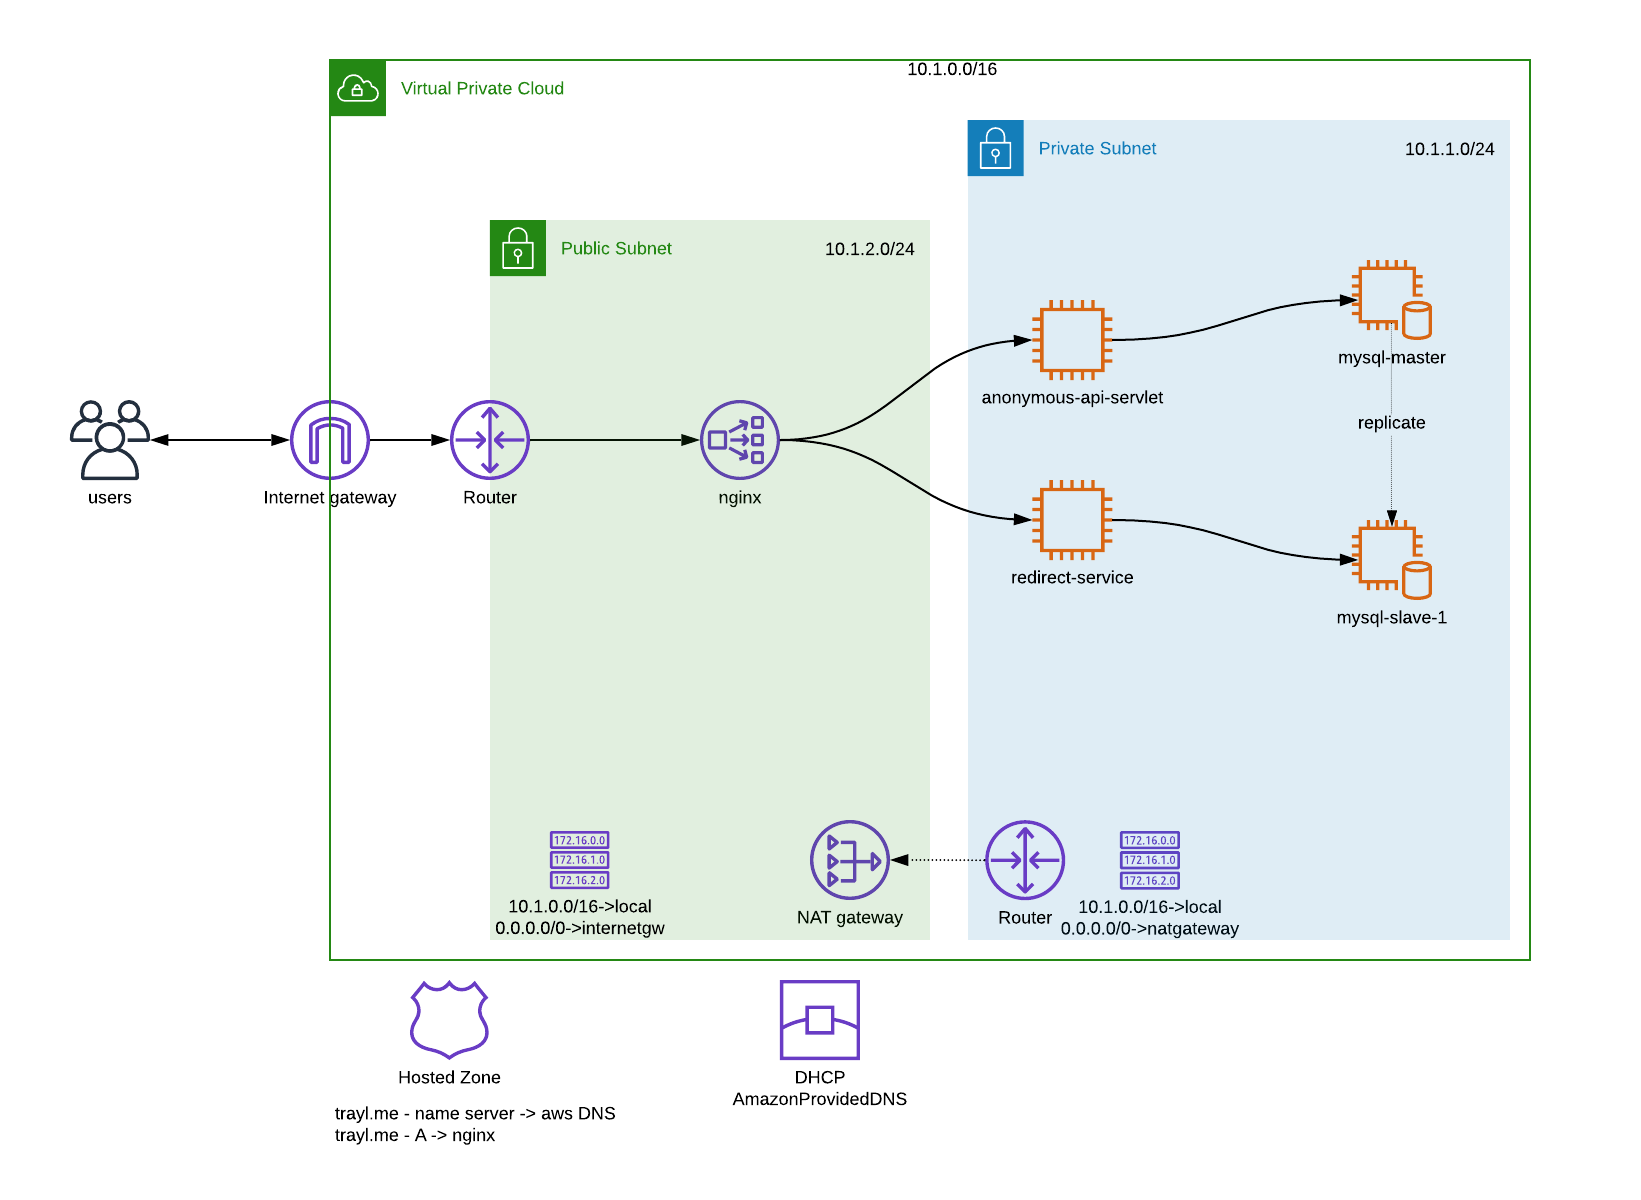
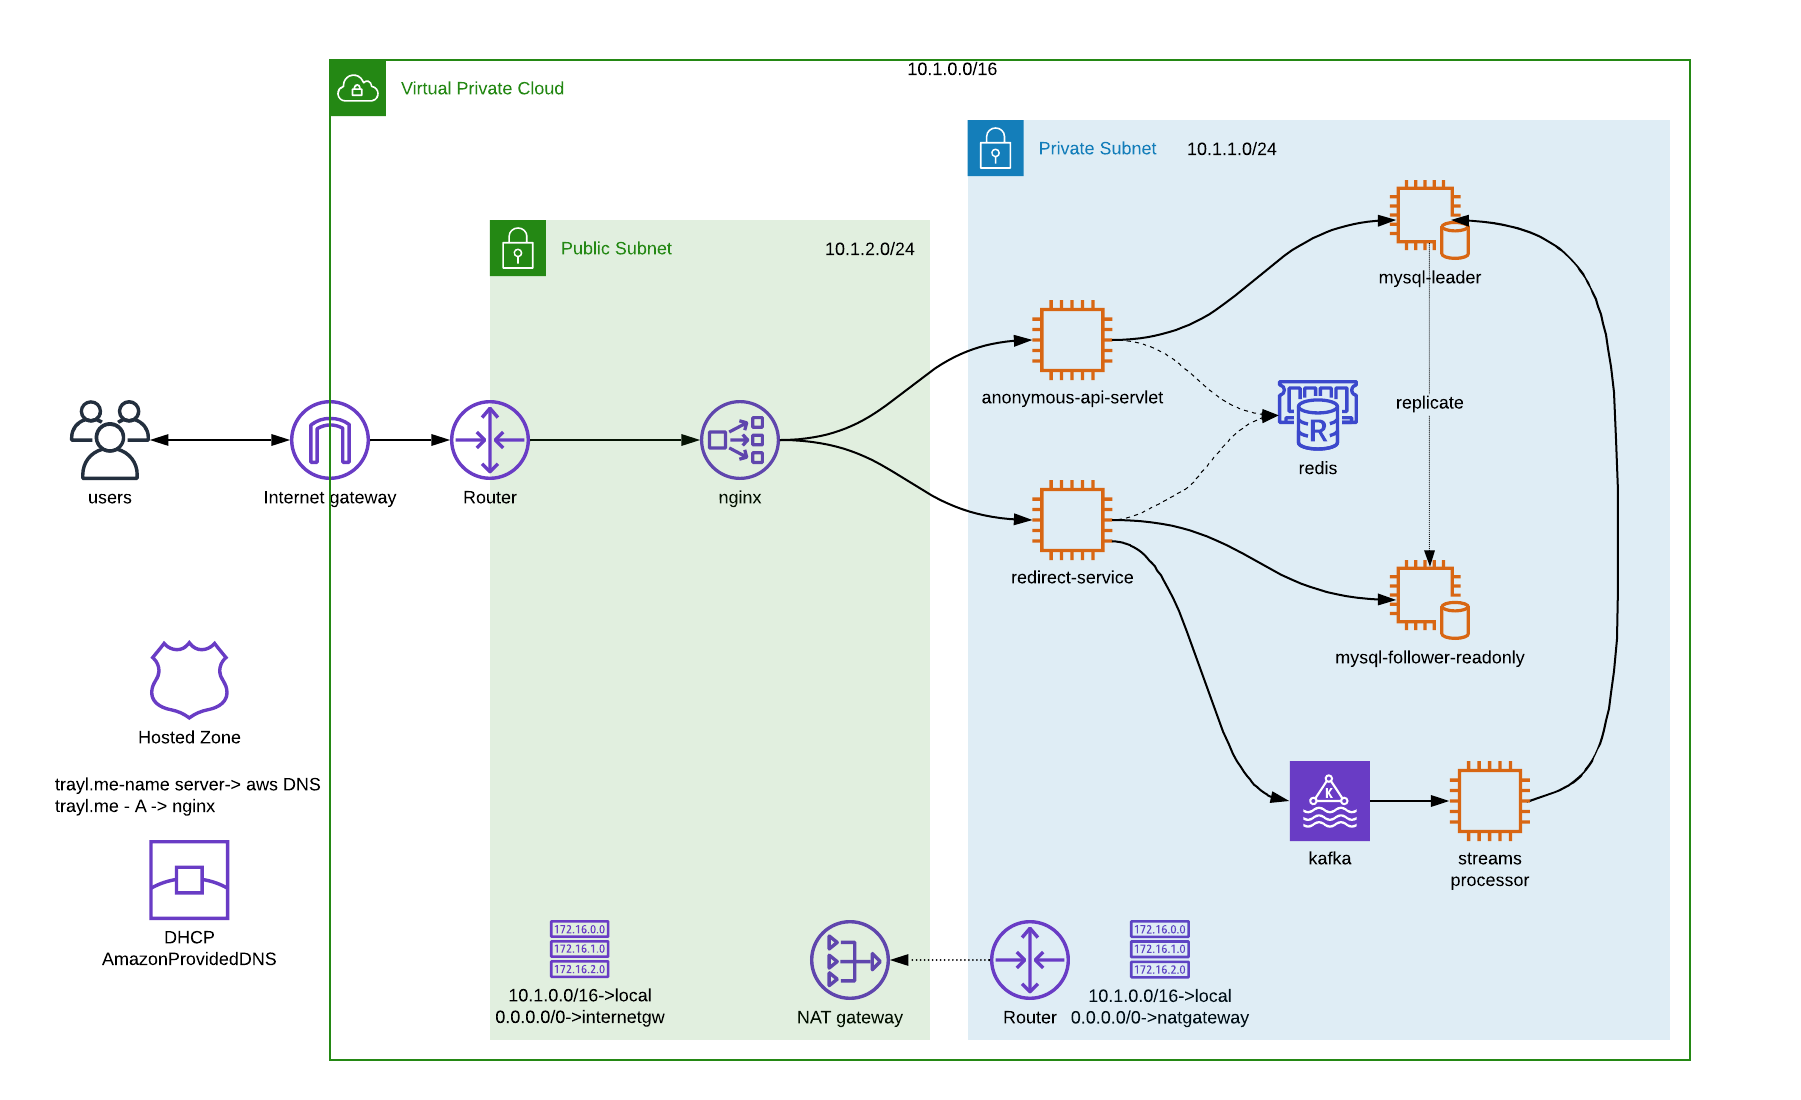
Better documentation

diff --git a/README.md b/README.md
@@ -3,11 +3,23 @@
 URL "shortener" side project
 
 
-Scope:
+#### Scope:
 ------
-- [x] v1 Servlet + MySQL
-- [ ] v2 Reactive + Cassandra
+v1 - Servlet + MySQL
+- [x] networking
+- [x] reverse proxy
+- [x] mysql leader
+- [x] mysql follower with replica
+- [x] anonymous-api
+- [x] redirect-service
+- [ ] cache
+- [ ] events log + aggregation
+
+
+v2 Reactive + Cassandra
+- [ ] ...
 
 
 ![infra](https://github.com/hensg/traylme/blob/master/docs/traylme_infra.png?raw=true)
+---
 ![sequence](https://github.com/hensg/traylme/blob/master/docs/traylme_sequence_diag.png?raw=true)
